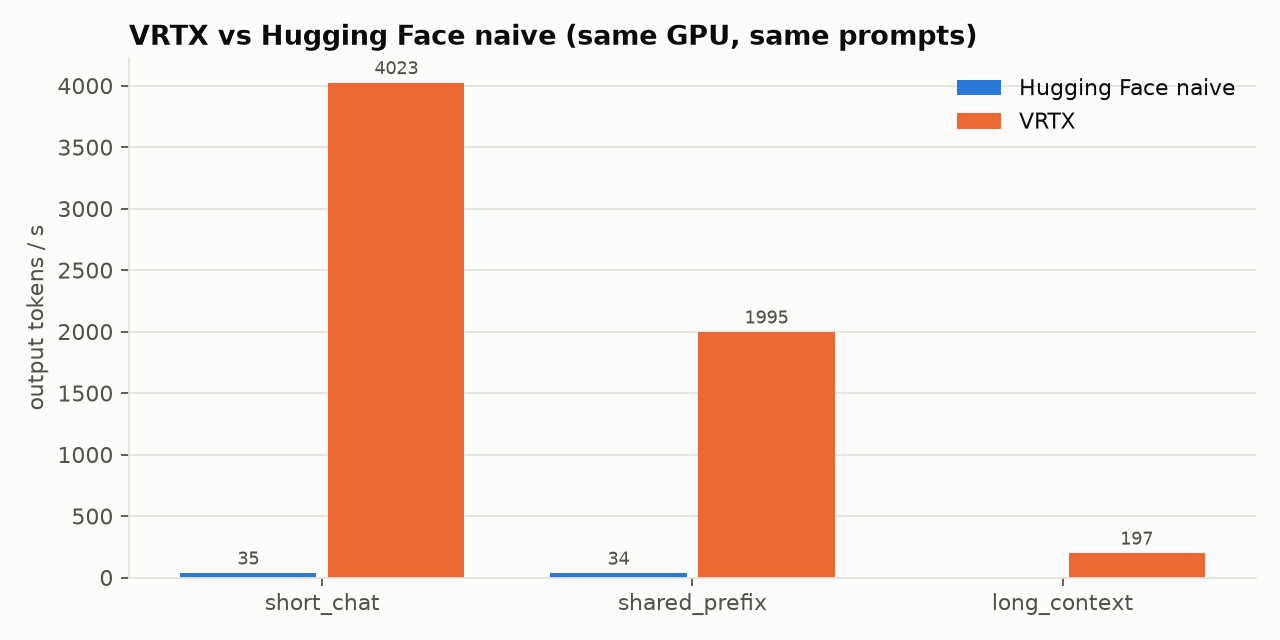
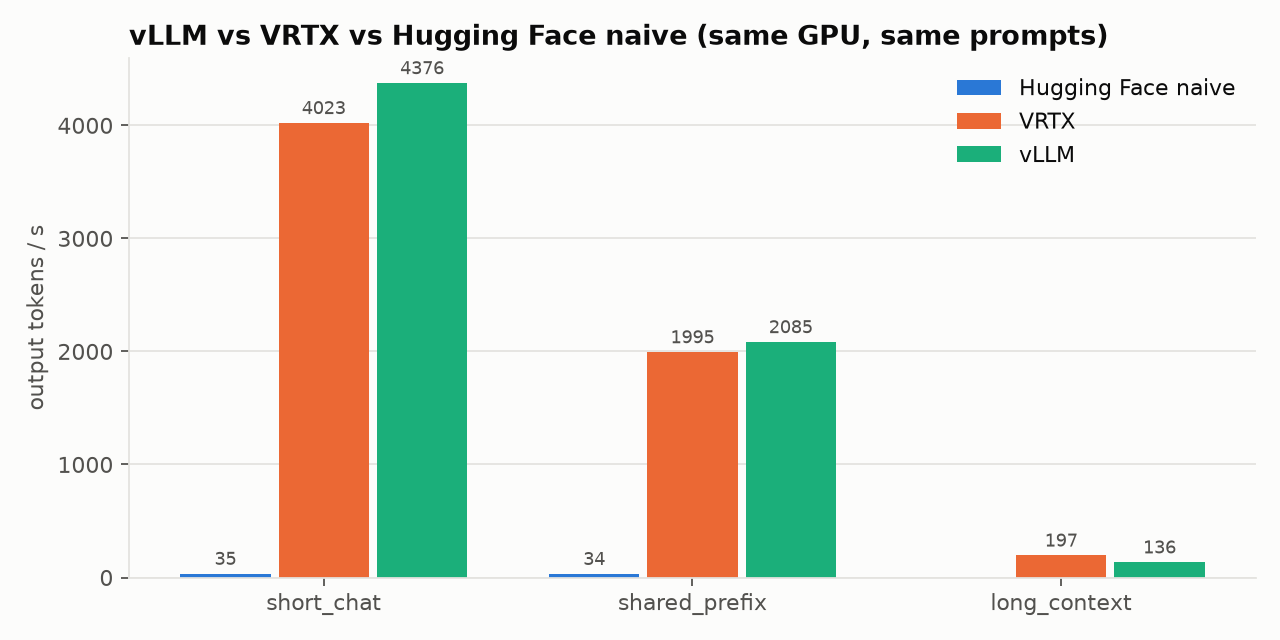
vLLM 0.31 on the T4: VRTX at 0.91x on short chat, 0.96x shared prefix, 1.45x on long context

diff --git a/README.md b/README.md
@@ -842,18 +842,20 @@ What did not work: **speed**. The first int8/int4 matmul kernel was 2-3x faster 
 - [x] Prefix hashing, reference counts, LRU eviction of cached blocks, copy-on-write
 - [x] Benchmarks: prefix caching on/off, speedup vs. gamma, full serving workloads on VRTX / vLLM / HF
 - [x] T4 run and writeup vs. naive HF
-- [ ] vLLM numbers (its install failed on the Kaggle T4 run)
+- [x] vLLM numbers on the same T4: VRTX is within 9% of vLLM 0.31 on short chat, 4% on shared prefix, and 1.45x faster on long context
 - [x] CUDA graphs for decode, draft and verify steps (`engine/cuda_graphs.py`): batches padded to fixed sizes, padding rows write into a reserved null block, shorter sequences padded at the front so causality holds; tested against the eager engine in CI
 - [x] Measure CUDA graphs on the T4: 2.0x at batch 1, 1.6x at 64 users, and speculative decoding goes from 0.94x to **1.24x**
-- **Milestone number:** **3,998 tok/s at 64 concurrent users** (short chat), **128x** naive Hugging Face on the same T4
+- **Milestone number:** **3,998 tok/s at 64 concurrent users** (short chat), **128x** naive Hugging Face and **0.91x vLLM** on the same T4
 
 **Month 4 results (same T4, same model, 64 concurrent users, prefix caching on, Triton kernels, CUDA graphs, every request forced to its full output length)**
 
-| Workload | Requests | VRTX | Naive HF | vs. HF | Median TTFT | TPOT | KV waste, paged vs. static 4K reserve |
-|---|---|---|---|---|---|---|---|
-| Short chat (115 in / 200 out) | 128 | **3,998 tok/s** | 31.1 tok/s | **128x** | 3.2 s | 15.6 ms | 1.7% vs. 92.3% |
-| Shared 1K system prompt (1,064 in / 128 out) | 128 | **1,994 tok/s** | 30.0 tok/s | **66x** | 4.2 s | 31.0 ms | 0.7% vs. 70.9% |
-| Long context (4,045 in / 200 out) | 32 | 197 tok/s | not run | | 12.2 s | 99.0 ms | 0.3% vs. 0% |
+| Workload | Requests | VRTX | vLLM 0.31 | vs. vLLM | Naive HF | vs. HF | Median TTFT | TPOT | KV waste, paged vs. static 4K reserve |
+|---|---|---|---|---|---|---|---|---|---|
+| Short chat (115 in / 200 out) | 128 | **3,998 tok/s** | 4,376 tok/s | 0.91x | 31.1 tok/s | **128x** | 3.2 s | 15.6 ms | 1.7% vs. 92.3% |
+| Shared 1K system prompt (1,064 in / 128 out) | 128 | **1,994 tok/s** | 2,085 tok/s | 0.96x | 30.0 tok/s | **66x** | 4.2 s | 31.0 ms | 0.7% vs. 70.9% |
+| Long context (4,045 in / 200 out) | 32 | **197 tok/s** | 136 tok/s | **1.45x** | not run | | 12.2 s | 99.0 ms | 0.3% vs. 0% |
+
+vLLM 0.31.0 (torch 2.13, CUDA 13.0) ran with the same prompts, 64 sequences, prefix caching on, fp16, and its defaults otherwise: torch.compile, its own CUDA graphs, and the Triton attention backend (FlashAttention needs a newer GPU than the T4). It runs in its own virtual environment on the notebook, in a separate Kaggle session from the VRTX rows, on the same GPU model. On short requests vLLM's step overhead is lower: VRTX is 9% behind at 64 users, 4% behind when most of the prompt is cached. On 4K-token prompts VRTX is 1.45x faster. That is one run and the cause is not pinned down; vLLM's warning that its Triton attention kernel was still compiling during the timed run suggests part of the gap is warm-up for the long shapes, not steady state.
 
 HF ran 16 requests per workload (one at a time, so its throughput does not depend on the count). Its speed varies between Kaggle sessions (31-35 tok/s; the first run measured 34.5 and 33.5, for 110x and 60x against VRTX's 3,784 and 2,019 without graphs), so read the ratios as +-10%. Graphs barely move these rows: at 64 users each step is already big enough that launches are a small share of it. TTFT here is mostly queueing: all requests arrive at t=0. Long context is prefill-bound: 129K prompt tokens before the first output, which is where a faster prefill (bigger chunks, a better prefill kernel) would help next. Charts: `docs/charts/vs_vllm.png`, `latency_cdf.png`, `kv_waste.png`.
 
